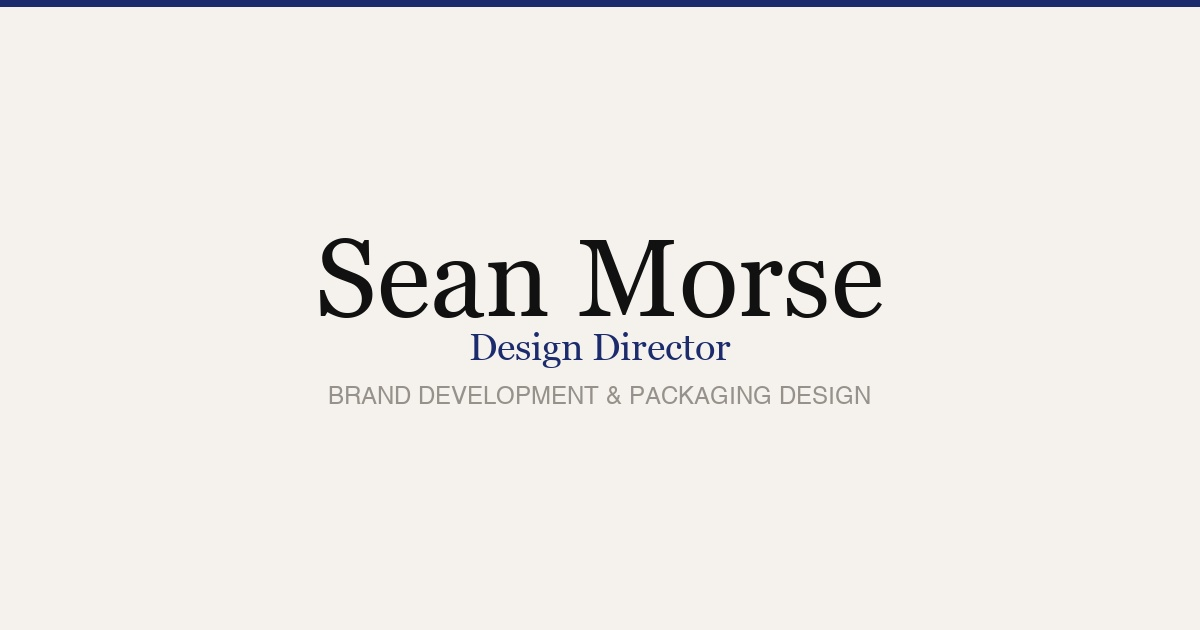
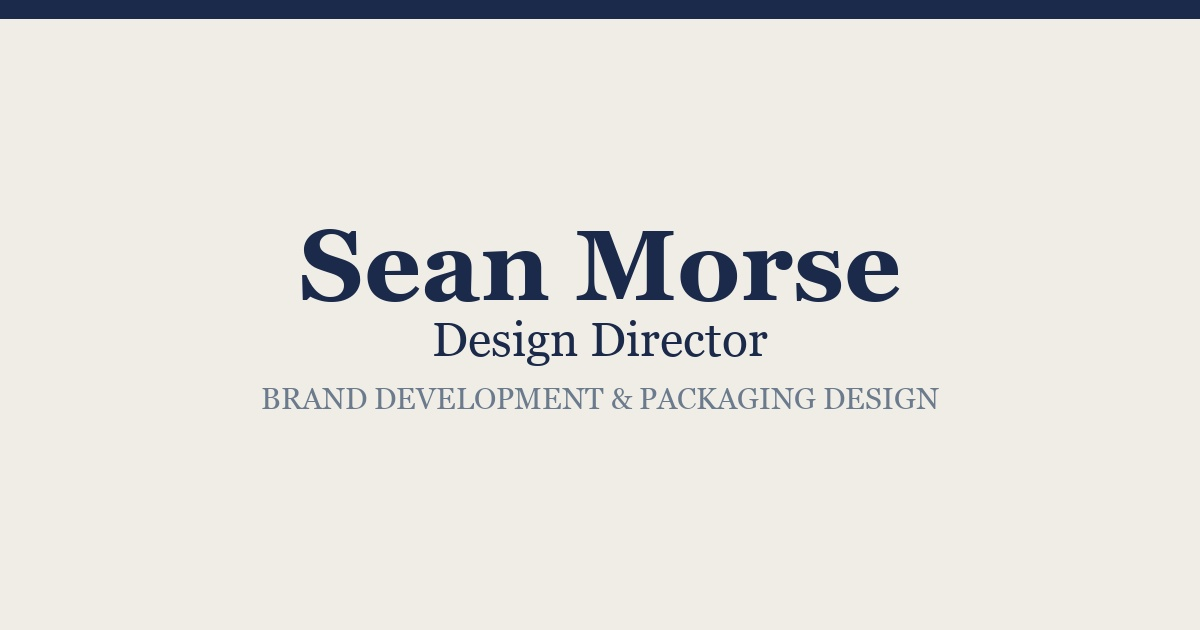
Enlarge OG image fonts and update URLs to production

Changed region(s): [[0.2158, 0.3619, 0.7708, 0.6635], [0.0, 0.0, 1.0, 0.0302]]

diff --git a/index.html b/index.html
@@ -10,12 +10,12 @@
   <meta property="og:type" content="website">
   <meta property="og:title" content="Sean Morse — Design Director">
   <meta property="og:description" content="Brand development and packaging design for CPG brands. Portland, OR.">
-  <meta property="og:image" content="https://dev.sean-morse-portfolio.pages.dev/images/og-image.jpg">
-  <meta property="og:url" content="https://dev.sean-morse-portfolio.pages.dev">
+  <meta property="og:image" content="https://sean-morse-portfolio.pages.dev/images/og-image.jpg">
+  <meta property="og:url" content="https://sean-morse-portfolio.pages.dev">
   <meta name="twitter:card" content="summary_large_image">
   <meta name="twitter:title" content="Sean Morse — Design Director">
   <meta name="twitter:description" content="Brand development and packaging design for CPG brands. Portland, OR.">
-  <meta name="twitter:image" content="https://dev.sean-morse-portfolio.pages.dev/images/og-image.jpg">
+  <meta name="twitter:image" content="https://sean-morse-portfolio.pages.dev/images/og-image.jpg">
 
   <!-- Favicon -->
   <link rel="icon" type="image/svg+xml" href="/favicon.svg">
